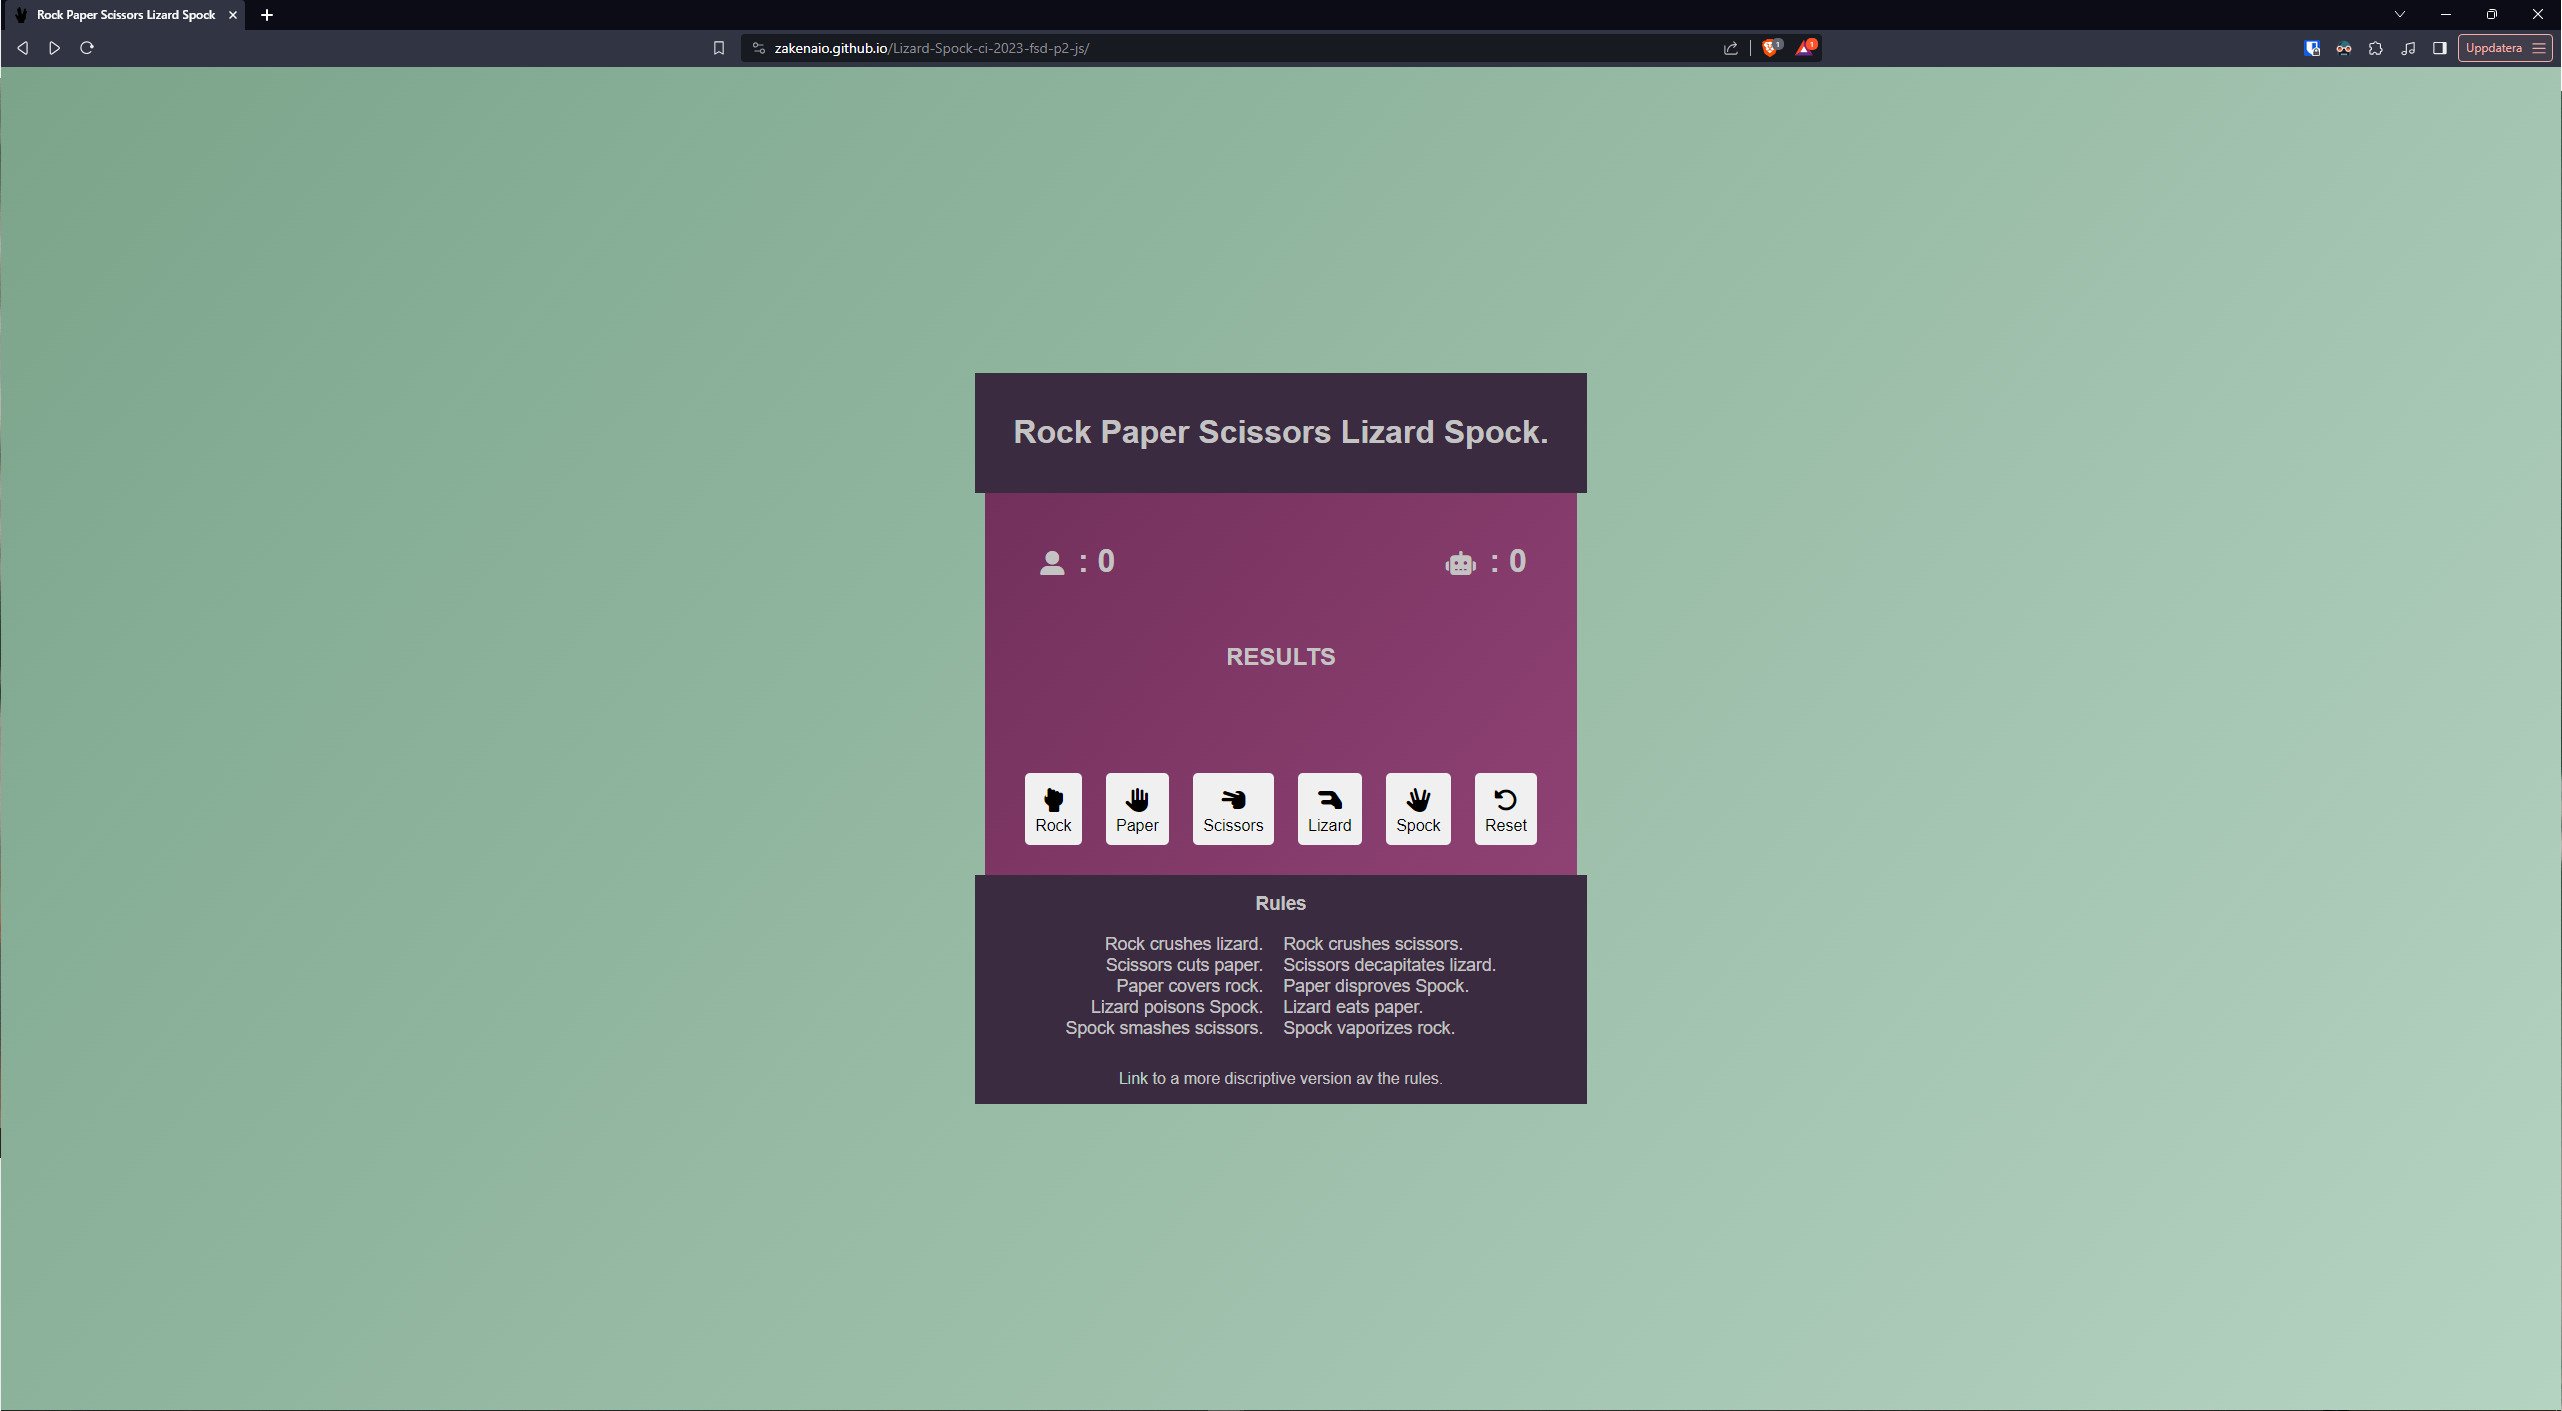
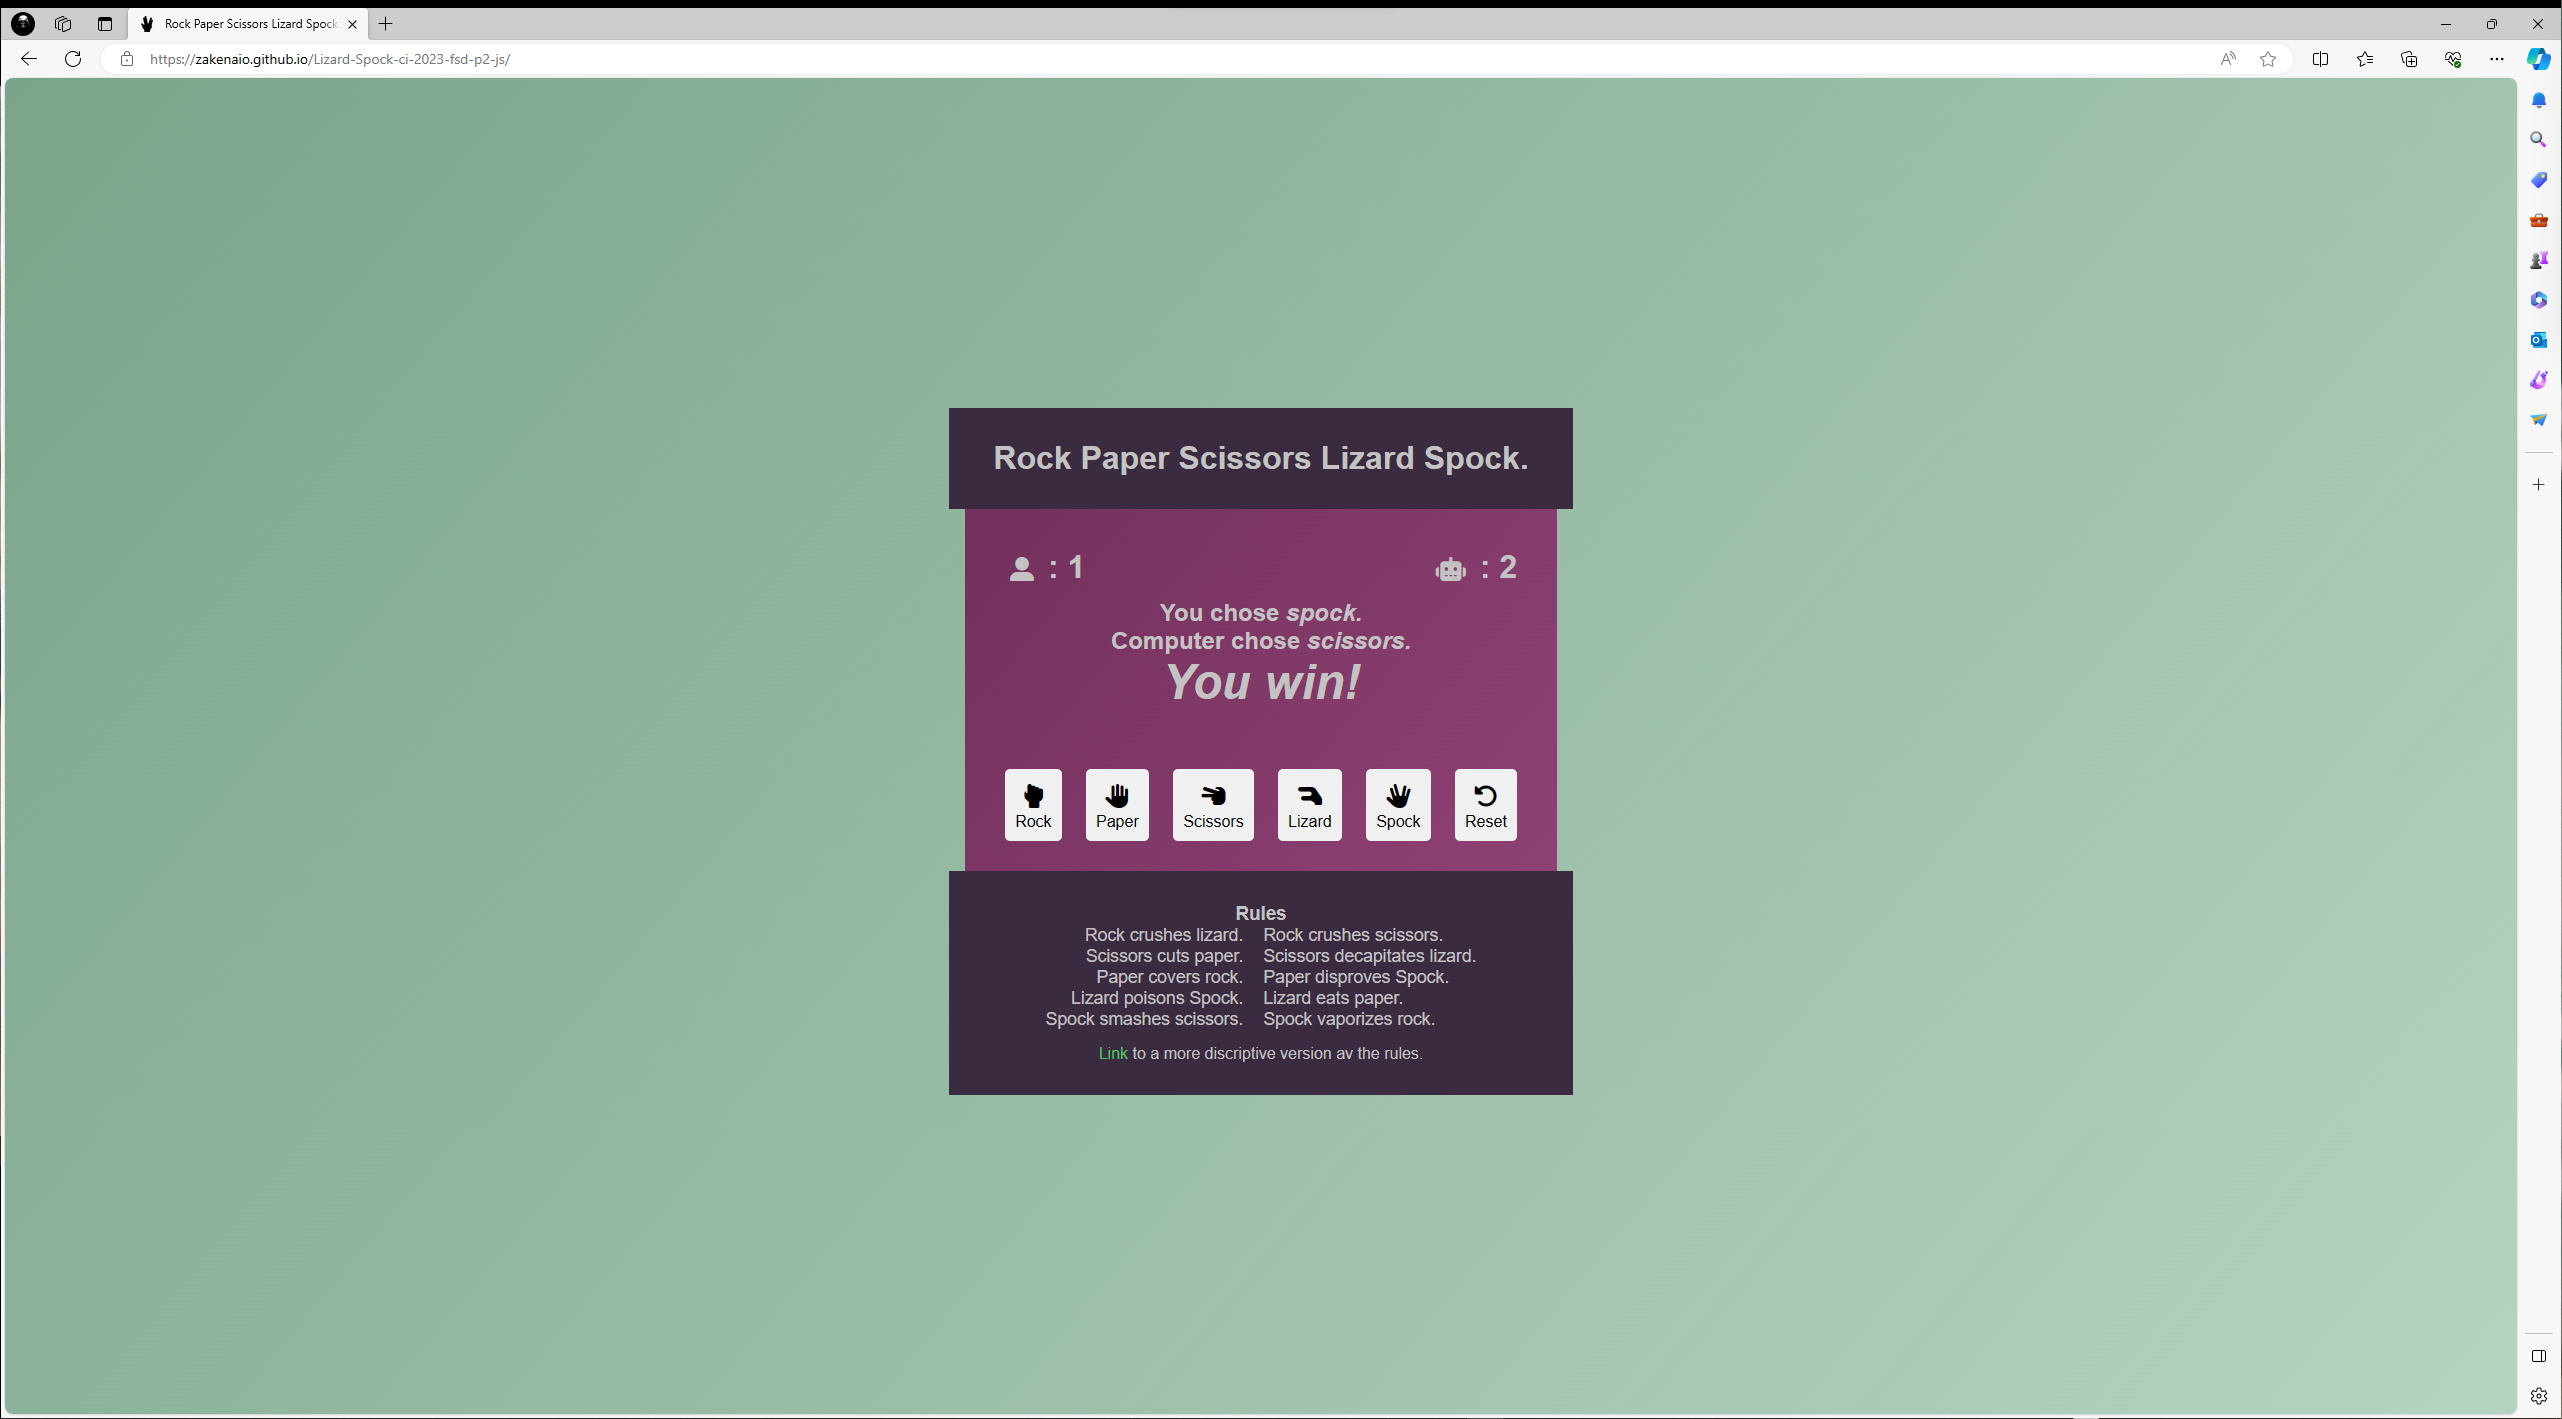
Add Browser Compatibillity screens from Edge on PC, Firefox and Safari on macOS

Changed region(s): [[0.0, 0.0, 1.0, 1.0], [0.3435, 0.2495, 0.6245, 0.7796], [0.4372, 0.4054, 0.5621, 0.4989]]

diff --git a/assets/js/script.js b/assets/js/script.js
@@ -12,7 +12,7 @@ function computerChoice() {
     return choices[Math.floor(Math.random() * 5)];
 }
 
-// EVENT LISTENERS FOR PLAYERCHOICE BUTTONS -please work this time! 
+// EVENT LISTENERS FOR PLAYERCHOICE BUTTONS
 document.addEventListener('DOMContentLoaded', function() {
     ['rock', 'paper', 'scissors', 'lizard', 'spock'].forEach(choice => {
         document.getElementById(`${choice}-btn`).addEventListener('click', () => playerChoice(choice));
@@ -82,7 +82,6 @@ function updateScore() {
 
 /**
  * resets game by changing score spans to 0
- * and update result to its default value. RESULTS
  */
 function resetGame() {
     playerScore = 0;

diff --git a/TESTING.md b/TESTING.md
@@ -42,7 +42,7 @@ I've tested my deployed project on multiple browsers to check for compatibility 
 | Browser |  |
 | --- | --- |
 | Firefox | ![screenshot](documentation/test-browser-firefox.png) | 
-| Edge | ![screenshot](documentation/test-browser-edge.png) | 
+| Edge | ![screenshot](documentation/test-broswer-edge.png) | 
 | Safari | ![screenshot](documentation/test-browser-safari.png) | 
 | Brave | ![screenshot](documentation/test-browser-brave.png) | 
 
